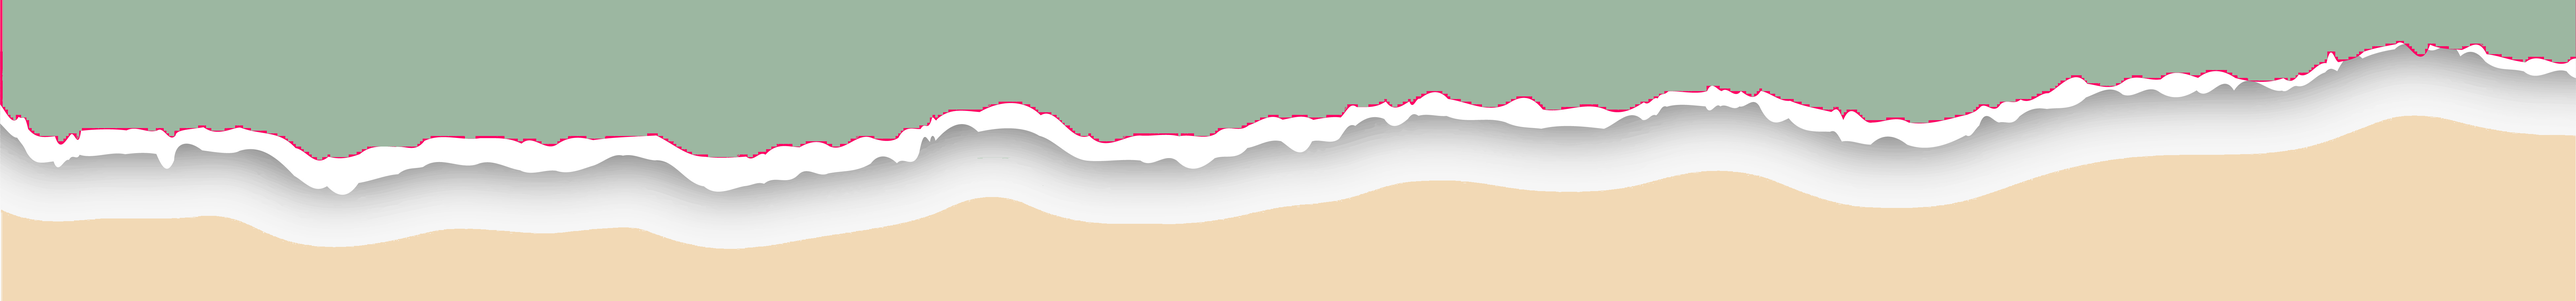
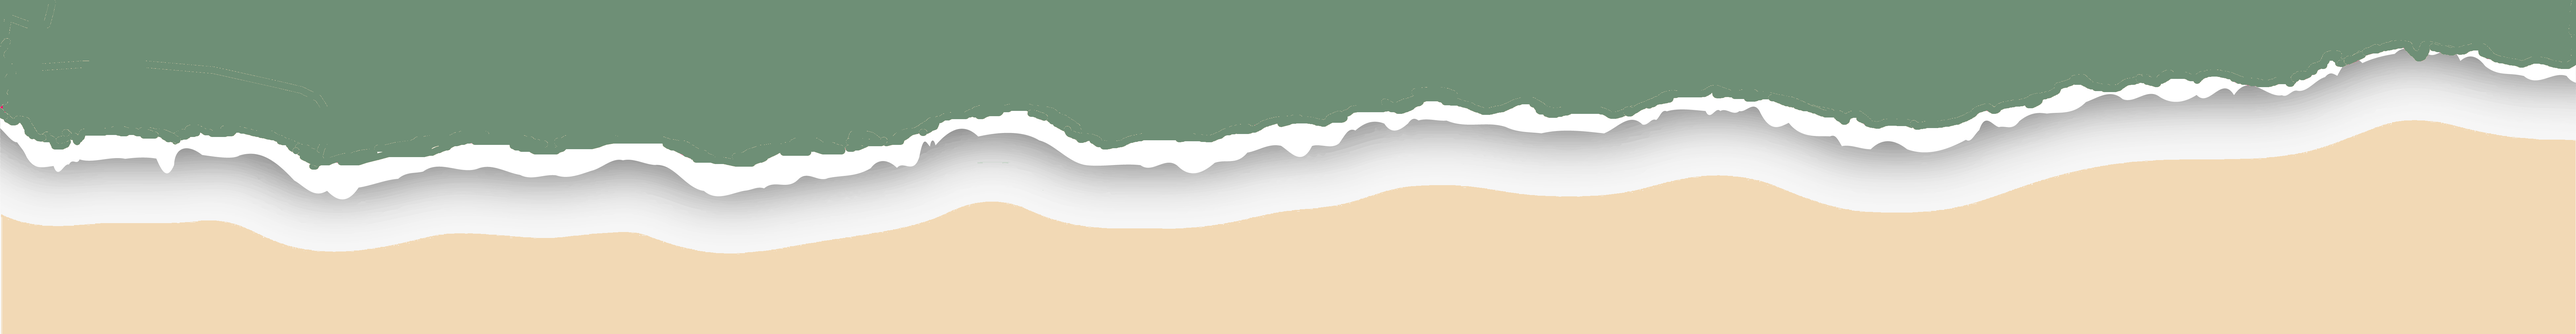
adicionei imagem5

diff --git a/index.html b/index.html
@@ -261,7 +261,7 @@
       
     </section>
   </main>
-  <img src="/assets/img/2025_01_15_transicao3.png" alt="" style="display: flex; width: 100%; transform: scaleX(-1);">
+  <img src="/assets/img/2025_01_15_transicao5.png" alt="" style="display: flex; width: 100%; transform: scaleX(-1);">
   <div class="container">
     <!-- <footer class="row row-cols-1 row-cols-sm-2 row-cols-md-4 py-5 my-5 border-top text-center"> -->
     <footer class="row row-cols-1 row-cols-sm-2 row-cols-md-4 py-5 border-top text-center">
